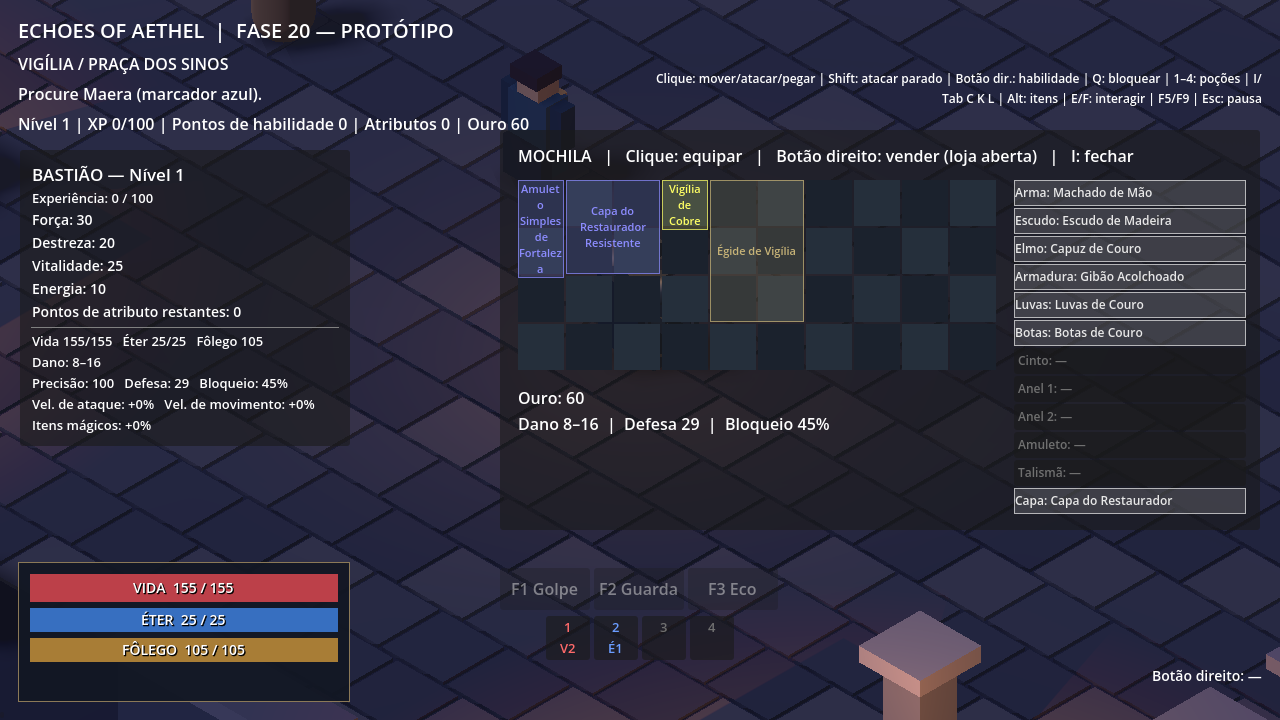
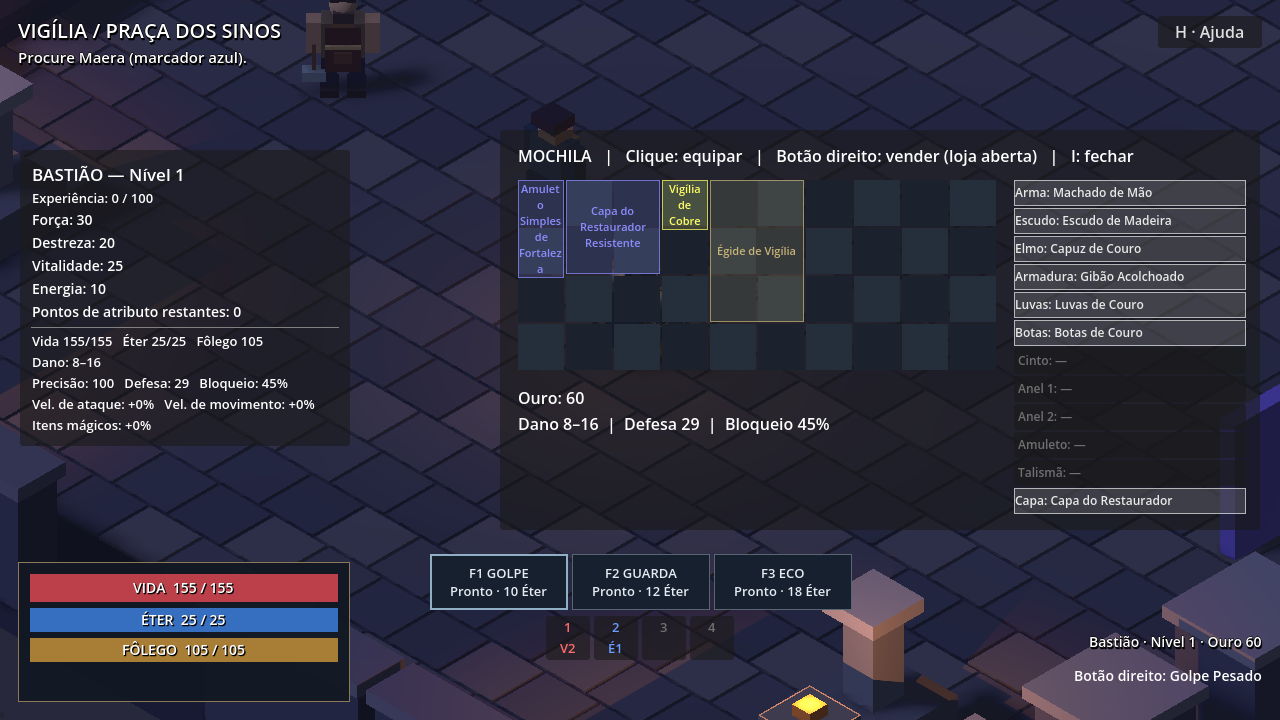
docs: document playability causes and verified regression evidence

diff --git a/docs/FASE20_STABILIZATION.md b/docs/FASE20_STABILIZATION.md
@@ -1,0 +1,53 @@
+# Fase 20 — estabilização crítica da jogabilidade
+
+## Base e preservação
+
+Branch `fix/fase20-jogabilidade`, descendente de `596d9e6` da consolidação. A pasta original havia sido reorganizada pelo usuário com o ZIP extraído em fonte/jogo/evidencias e deleções na raiz. As correções foram realizadas em worktree isolada, sem restaurar essas deleções nem sobrescrever o pacote anterior. Comparação dos arquivos de fonte/ com o commit: nenhuma divergência de conteúdo. Nenhum avanço para a Fase 23 ou merge automático.
+
+Cena principal: `scenes/main_menu.tscn` → `scenes/main.tscn`. Mundo: `scripts/hybrid_world.gd`; jogador: `scripts/hybrid_player.gd`; câmera: `src/core/follow_camera.gd`; ações: InputMap em project.godot / `src/core/input_actions.gd`; habilidades: `src/skills/skill_tree.gd`; NPCs: `scripts/procedural_npc.gd`; HUD: `src/ui/hud_manager.gd` e composição no mundo.
+
+## Causas identificadas e correções
+
+| Problema | Evidência na versão anterior | Correção no componente existente |
+|---|---|---|
+| Câmera próxima | Tamanho ortográfico 10, sem zoom configurável | Inicial 12; roda 10–18; interpolação, centro limitado ao mapa e preferência opcional |
+| Clique no inimigo vira movimento em direção errada | Seleção por distância fixa de 46 pixels ao centro; cabeça de rank grande fora desse círculo. A falha cai no plano do chão atrás do modelo | Raycast único da câmera; volumes de seleção proporcionais ao visual; corpo/área resolvidos para a entidade. Inimigo tem prioridade sobre loot/chão |
+| Piso inválido | Interseção matemática com plano y=0 ignorava obstáculos | Raycast no mundo físico, aceitando somente collider de chão marcado; cliques fora da tela ou sobre obstáculos são rejeitados |
+| Aproximação oscilante/ataque em movimento | Comando em velocidade integral até o centro, sem limitar o último passo ao alcance; recuperação não interrompia velocidade | Alvo persistente, comando repetido idempotente, passo limitado à distância restante, orientação antes do golpe, pausa curta na recuperação e máscaras físicas explícitas |
+| Ataque parado desvia | Ao segurar Shift+clique a atualização de mira voltava ao chão sob a cabeça do inimigo | Atualização contínua usa a mesma seleção física e orienta ao alvo, sem deslocamento |
+| F1/F2/F3 não executam | Teclas apenas selecionavam a habilidade do botão direito; todas começavam bloqueadas | Teclas e botões executam a mesma implementação existente; três técnicas do kit liberadas na slice; right-click continua disponível |
+| Falta de feedback das habilidades | Botões cinzentos sem informação de Éter/recarga | Estados Pronto, Ativa, Recarga, Sem Éter, Recuperação e Indisponível; tentativas inválidas sem custo/recarga; guarda com indicador e cancelamento |
+| Doma sem representação | Uma CapsuleMesh, sem traje nem ferramenta | Papel blacksmith no visual procedural de NPC existente, com corpo humano, roupa, avental, barba, botas, martelo e nome. Corpo e área de interação separados do visual |
+| Excesso de texto no topo | Título técnico, XP, pontos, ouro e linha longa de controles | Topo com região/objetivo; resumo do personagem no rodapé; ajuda recolhida em H; habilidades com contraste |
+
+Não foi encontrado erro de sinal na inversão matemática da câmera: o round-trip de projeção permanece correto. O erro reproduzido estava na seleção em pixels e no destino de chão usado como fallback/mira. A correção não consiste em inverter arbitrariamente um vetor.
+
+## Reprodução antes da correção
+
+Executado `tests/reproduce_manual_report.gd` usando o projeto extraído anterior como res://, em perfil isolado:
+
+```text
+REPORT: zoom=10.0 head_click_selects=false
+REPORT: F1_damage=0 mana_spent=0
+REPORT: Doma_apron=false
+```
+
+O teste original de gameplay selecionava o primeiro inimigo mesmo quando sua projeção ficava fora da tela. Foi ajustado para posicionar a câmera/jogador diante de um alvo visível e aguardar registro dos colliders físicos. Selecionar projeções fora da tela não é um controle a preservar.
+
+## Técnicas e regras preservadas
+
+Golpe Pesado: custo 10, dano 1,5×, recarga 1 s. Guarda de Ferro: custo 12, redução de dano 40% por 8 s, recarga 12 s; repetir cancela sem reembolso ou reinício da recarga. Corte do Eco: custo 18, dano 1,25×, raio 3,4, 360°, recarga 4 s. Animação continua sendo apresentação, sem determinar os acertos.
+
+As três técnicas foram disponibilizadas como kit de treinamento da vertical slice para permitir teste imediato dos controles, também ao carregar saves antigos. Os dados de nível/pré-requisitos do componente de progressão foram preservados; isso não homologa o balanceamento final da campanha nem adiciona habilidades novas.
+
+## Testes e evidências
+
+Nove suítes GDScript com exit 0, incluindo `test_playability.gd` com 69 verificações: projeção/raycast em três resoluções e três zooms, cabeça de inimigo rank 2, rejeição de obstáculo, repetição de clique, aproximação, parada no alcance, orientação, ataque parado, F1, F2 ativa/cancela/expira, F3 em área, recursos e cooldowns, movimento interrompido para golpe, E/F/L em Doma, InputMap legado, ajuda, limites e persistência do zoom.
+
+As 5.105 verificações de consolidação continuam passando; bot 10/10 vitórias. A suíte usa input sintético despachado pela árvore para as teclas; não equivale a playtest humano completo.
+
+Capturas locais em OpenGL 3.3 / AMD RX 580: HUD em 1280×720, 1366×768 e 1280×800, Doma, ajuda, guarda ativa, mochila, loja, pausa e opções. Artefatos e logs acompanham o pacote Windows. Mensagens ambientais do sandbox sobre certificados, preferências e cache de shaders estão registradas; não foram ocultadas como se fossem erros de gameplay resolvidos.
+
+## Limites
+
+Nenhum chefe de campanha foi implementado nesta etapa. O relato de clique no chefe foi exercitado sobre o mesmo controlador com rank 2 e volume grande; o campeão do Bairro usa essa mesma lógica. Modelos continuam placeholders; Doma não é arte final. Pathfinding para contornar obstáculos complexos continua ausente. O trabalho estabiliza controles e combate da Fase 20; não amplia inventário, campanhas ou efeitos finais. Playtest humano de aprovação permanece necessário.

diff --git a/docs/TESTING.md b/docs/TESTING.md
@@ -1,21 +1,22 @@
-# Teste da versão consolidada
+# Teste da Fase 20 estabilizada
 
 Extraia o ZIP completo e abra `jogo/EchoesOfAethel-Fase20.exe`, mantendo o `.pck` na mesma pasta. Windows 64 bits, OpenGL 3.3; Godot já incluída no executável exportado.
 
 1. No menu, teste Opções (tela cheia, volume e tecla E/F). Inicie Novo jogo. Continuar só fica disponível quando existe save.
 2. Mova com WASD/setas e clique. O ataque por clique seleciona/persegue um inimigo; Shift+clique ataca parado. J é o ataque alternativo.
-3. Procure Maera (marcador azul), use E/F e atravesse o portal roxo a leste com a mesma tecla.
-4. No Bairro, derrote cinco Rasuras, incluindo a campeã. Teste Q com escudo, Espaço para esquiva e 1–4 para poções.
-5. Clique nos drops ou use E/F perto deles. Alt revela todos os rótulos. Abra I/Tab e confira os itens na grade.
-6. Clique em equipamento para equipar, ou no slot para desequipar. Confira dano/defesa em C. Aparências são placeholders geométricos cadastrados, com raridade individual por slot; acessórios não exigem visual.
-7. Ao subir de nível, distribua atributos em C e desbloqueie habilidades em K. Selecione com F1–F3 ou pela barra e use o botão direito.
-8. Retorne ao portal após limpar a área e conclua a missão. Em Vigília, aproxime-se de Doma e use L; compre, equipe e venda pelo botão direito na mochila.
-9. F5 salva; altere equipamento/ouro, pressione F9 e confira a restauração. O save v4 aceita v2/v3 e faz backup. Novo jogo não apaga o save anterior até você salvar.
-10. Esc pausa a simulação. Teste Retomar, Salvar, Opções e Voltar ao menu; escolha Continuar. Após derrota, R inicia sessão nova.
+3. Ajuste a câmera com a roda do mouse. O tamanho inicial é 12, limitado entre 10 e 18. H abre/fecha a ajuda sem ocupar permanentemente o topo. Em Opções é possível desativar a memorização do zoom.
+4. Procure Maera (marcador azul), use E/F e atravesse o portal roxo a leste com a mesma tecla.
+5. No Bairro, derrote cinco Rasuras, incluindo a campeã. Teste Q com escudo, Espaço para esquiva e 1–4 para poções.
+6. Clique nos drops ou use E/F perto deles. Alt revela todos os rótulos. Abra I/Tab e confira os itens na grade.
+7. Clique em equipamento para equipar, ou no slot para desequipar. Confira dano/defesa em C. Aparências são placeholders geométricos cadastrados, com raridade individual por slot; acessórios não exigem visual.
+8. Ao subir de nível, distribua atributos em C e desbloqueie habilidades em K. Selecione com F1–F3 ou pela barra: agora executam diretamente. O botão direito repete a última técnica. Neste pacote as três técnicas existentes já estão liberadas para teste, inclusive em saves anteriores. F2 reduz dano por oito segundos; uma segunda pressão cancela sem reembolso nem reiniciar a recarga. Cada botão mostra Pronto, Ativa, Recarga, Sem Éter ou indisponibilidade.
+9. Retorne ao portal após limpar a área e conclua a missão. Em Vigília, aproxime-se de Doma (avental, martelo e nome) e use E/F ou L; compre, equipe e venda pelo botão direito na mochila.
+10. F5 salva; altere equipamento/ouro, pressione F9 e confira a restauração. O save v4 aceita v2/v3 e faz backup. Novo jogo não apaga o save anterior até você salvar.
+11. Esc pausa a simulação. Teste Retomar, Salvar, Opções e Voltar ao menu; escolha Continuar. Após derrota, R inicia sessão nova.
 
 ## Conteúdo e limitações
 
-Esta entrega é derivada do ZIP da Fase 20 e dos módulos das Fases 21/22. Não use o pacote antigo `EchoesOfAethel-Teste-Windows-x64.zip` para avaliar este progresso.
+Esta entrega é derivada do ZIP da Fase 20 e dos módulos das Fases 21/22. Use o novo **EchoesOfAethel-Fase20-Estabilizado-Windows-x64.zip**. Os pacotes anteriores não contêm estas correções.
 
 Cenário geométrico compartilhado entre map_01/map_02; map_04 e campanha completa pendentes. Clique usa direção direta: ainda não existe NavigationMesh para contornar obstáculos automaticamente. Modelos, animações e emissão localizada são placeholders; sem rigs/arte/áudio finais. Outras quatro classes têm somente contratos de dados.
 
@@ -24,3 +25,13 @@ O pacote usa exportação Windows release da Godot 4.7.2, template oficial, sem 
 Smoke automatizado do export: execute `EchoesOfAethel-Fase20.exe --headless --quit-after 120 -- --smoke-gameplay`. Esse argumento entra numa sessão nova apenas para conferir o carregamento; não salva.
 
 As verificações automáticas e capturas gráficas não substituem um playtest humano completo. Registre mapa, ação, mensagem de erro e passos para reproduzir cada problema encontrado.
+
+## Regressões específicas para conferir manualmente
+
+- Clique na cabeça e no corpo da Rasura campeã, inclusive após alterar zoom. Deve selecionar o mesmo alvo, aproximar e atacar, sem buscar o ponto atrás dele. O jogo ainda não inclui um chefe de campanha; os testes exercitam também o rank Único grande do controlador existente.
+- Clique repetidamente no alvo durante a aproximação. Segure Shift e clique para atacar sem deslocamento. WASD continua cancelando um comando anterior como controle explícito do jogador.
+- Use F1 em alcance e confira dano/Éter/recarga. Com movimento ativo, o golpe interrompe o deslocamento anterior durante sua recuperação.
+- Use F2, confira o círculo discreto da guarda e a redução de dano, pressione novamente para cancelar e confira a recarga. Deixe expirar naturalmente em outra tentativa.
+- Use F3 com inimigos próximos em lados diferentes: é o Corte do Eco existente, dano 360° com raio 3,4 e custo 18 de Éter. A mira e o dano não dependem da animação.
+- Gaste Éter e observe Sem Éter; use a poção do cinto. Uma tentativa bloqueada não deve cobrar recurso nem iniciar nova recarga.
+- Confira Doma de perto e abra sua loja tanto com interação configurada quanto com L. A colisão e a área de interação pertencem ao NPC físico, não às peças do modelo.

diff --git a/README.md b/README.md
@@ -4,6 +4,12 @@ Pré-alpha de ARPG de fantasia sombria, single-player, Windows x64, Godot **4.7.
 
 Esta branch consolida o **ZIP completo da Fase 20** com os adaptadores das Fases 21 e 22. Não usa o protótipo antigo de Downloads como base. Histórico, fontes e escolha de ancestral: [auditoria](docs/CONSOLIDATION_AUDIT.md) e [manifesto](docs/SOURCE_MANIFEST.json).
 
+## Estabilização crítica da Fase 20
+
+Branch `fix/fase20-jogabilidade`, baseada na consolidação `596d9e6`. Câmera inicial 12 com zoom 10–18 pela roda, raycast para selecionar inimigos e validar o chão, aproximação limitada ao alcance, F1/F2/F3 com execução direta e estado visível, Doma humano com avental/martelo e ajuda recolhível em H. [Causas, regressões e limites](docs/FASE20_STABILIZATION.md).
+
+As três técnicas já existentes são disponibilizadas como kit de teste desta vertical slice, inclusive ao carregar saves anteriores. Não foram criadas habilidades novas nem declarado balanceamento final; a tela K continua mostrando seus dados e o botão direito repete a última técnica usada. A árvore genérica de progressão continua disponível no componente existente.
+
 ## Estado real
 
 | Situação | Conteúdo |
@@ -13,7 +19,7 @@ Esta branch consolida o **ZIP completo da Fase 20** com os adaptadores das Fases
 | Validado em execução gráfica | Menu, mundo, HUD em 1280×720, 1366×768 e 1280×800, mochila, personagem, habilidades, loja, pausa e opções |
 | Ainda requer playtest humano | Sensação de combate, percurso por mouse, balanceamento amplo e experiência em outras máquinas |
 | Planejado | Quatro outras classes jogáveis; modelos/rigs/animações finais; áudio de produção; navmesh; dungeon map_04; 15 mapas, três dungeons e três finais completos |
-| CI validado | [Windows pre-alpha #1](https://github.com/Sarhuman/ECHOES-OF-AETHEL/actions/runs/39502230965) aprovado: importação, testes, exportação e upload do artefato |
+| CI | A consolidação anterior foi aprovada no run #1; o novo workflow desta branch gera o pacote **Estabilizado**. Consultar o PR de correção para o resultado remoto atual |
 
 Vigília (`map_01`) e Bairro que Faltava (`map_02`) compartilham a geometria de teste e mudam NPCs, inimigos e objetivos. Não são dois mapas artísticos finalizados. Não há conteúdo executável do Arquivo das Portas Seladas (`map_04`).
 
@@ -31,16 +37,17 @@ Para editar: importe o **project.godot da raiz deste repositório** na Godot 4.7
 | Atacar/perseguir | Clique em inimigo; Shift+clique para atacar parado; J para ataque básico |
 | Bloquear | Segurar Q com escudo; bloqueio manual consome Fôlego |
 | Esquivar | Espaço |
-| Habilidade | Botão direito; escolher com F1–F3 ou barra, desbloquear em K |
+| Habilidade | F1: Golpe; F2: Guarda (novamente cancela); F3: Eco. Barra também executa; botão direito repete a última técnica |
 | Interagir/coletar | E; configurável para F em Opções; clique também coleta drops |
 | Mochila/personagem/habilidades/loja | I ou Tab / C / K / L perto de Doma |
 | Mostrar itens comuns | Alt |
 | Poções | 1–4 |
 | Salvar/carregar | F5 / F9 |
+| Câmera / ajuda | Roda: zoom limitado; H: controles recolhíveis |
 | Pausa | Esc; retomar, salvar, opções, menu e saída |
 | Reiniciar após derrota | R, inicia uma nova sessão |
 
-Ações centralizadas no InputMap (`project.godot`) e em `AethelInput`; opções controlam tela cheia, volume do bus Master e tecla de interação. O jogo ainda não possui trilha ou efeitos de áudio finais.
+Ações centralizadas no InputMap (`project.godot`) e em `AethelInput`; opções controlam tela cheia, volume do bus Master, tecla de interação e persistência do zoom. O jogo ainda não possui trilha ou efeitos de áudio finais.
 
 ## Testar e exportar
 

diff --git a/docs/VALIDATION.md b/docs/VALIDATION.md
@@ -1,4 +1,16 @@
-# Validação local — 20/10/2026
+# Validação da Fase 20 estabilizada — 20/10/2026
+
+## Resultado atual
+
+Nove suítes aprovadas, incluindo **test_playability: 69 verificações, zero falhas**. Mantidas as 5.105 verificações de consolidação e 10/10 vitórias do bot. Importação Godot 4.7.2 sem erros de parsing. Zoom/raycast validados em 1280×720, 1366×768 e 1280×800, zoom 10/12/18. Executável Windows exportado com o template oficial.
+
+Detalhes das causas reproduzidas e correções: [FASE20_STABILIZATION](FASE20_STABILIZATION.md). Capturas atuais: [HUD e câmera](evidence/hud-1280x720.png), [Doma](evidence/doma.png), [Guarda ativa](evidence/guarda-ativa.png). Ajuda H mantém instruções extensas fora da área principal. Modelos são placeholders identificados.
+
+A aprovação em testes automatizados e inspeção de capturas não substitui a rodada humana de aceitação. A build é para teste da estabilização, não lançamento estável.
+
+## Registro anterior da consolidação
+
+O restante deste documento descreve a entrega que serviu de base. Para o comportamento dos controles F1–F3 e seleção do alvo, prevalece o relatório de estabilização acima.
 
[1 lines of base64/hex data omitted]
 
